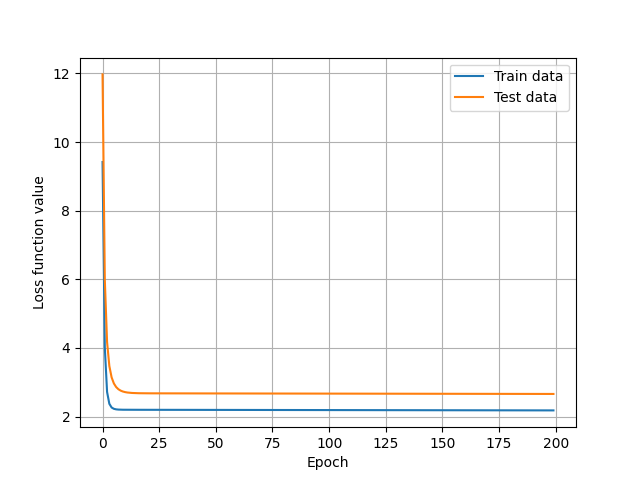
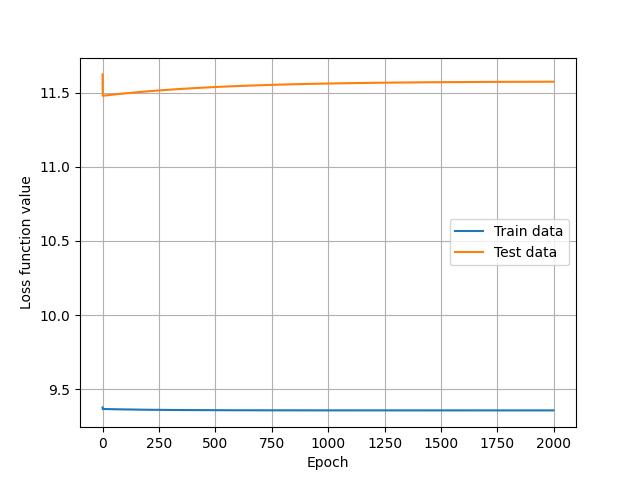
Add create_and_train_network function

diff --git a/main.py b/main.py
@@ -2,13 +2,13 @@ import matplotlib.pyplot as plt
 import numpy as np
 from sklearn.neural_network import MLPRegressor
 
-from neural_network.layers import Linear, ReLu
+from neural_network.layers import Linear, ReLu, Tanh, Sigmoid
 from neural_network.loss_functions import MSE
 from neural_network.neural_network import NeuralNetwork
 
 
 def aim_function(x):
-    return (x ** 3)
+    return x ** 3
 
 
 def create_samples(func, num):
@@ -17,27 +17,44 @@ def create_samples(func, num):
     return x_s, y_s
 
 
+def create_and_train_network():
+    x_train, y_train = create_samples(aim_function, 1000)
+    x_test, y_test = create_samples(aim_function, 100)
+    nn = NeuralNetwork(MSE())
+    first = Linear(1, 100)
+    first_activation = activation_function(100, 100)
+    second = Linear(100, 100)
+    second_activation = activation_function(100, 100)
+    third = Linear(100, 1)
+    nn.add(first)
+    nn.add(first_activation)
+    nn.add(second)
+    nn.add(second_activation)
+    nn.add(third)
+    nn.train(
+        x_train.T,
+        y_train.T,
+        learning_rate=learning_rate,
+        epochs=epochs,
+        minibatch_size=32,
+        calc_test_err=True,
+        x_test=x_test.T,
+        y_test=y_test.T,
+    )
+    return x_test, y_test
+
+
 def test_network():
     scores = []
     for i in range(20):
         np.random.seed = i + 1
-        x_train, y_train = create_samples(aim_function, 1000)
-        x_test, y_test = create_samples(aim_function, 100)
-        nn.train(
-            x_train.T,
-            y_train.T,
-            learning_rate=learning_rate,
-            epochs=epochs,
-            minibatch_size=32,
-            calc_test_err=True,
-            x_test=x_test.T,
-            y_test=y_test.T,
-        )
+        x_test, y_test = create_and_train_network()
         scores.append(nn.score(x_test.T, y_test.T))
     return np.mean(scores), np.std(scores)
 
 
-np.random.seed(38)
+np.random.seed(42)
+activation_function = Sigmoid
 x_train, y_train = create_samples(aim_function, 1000)
 
 x_test, y_test = create_samples(aim_function, 100)
@@ -46,9 +63,9 @@ learning_rate = 0.001
 epochs = 2000
 
 first = Linear(1, 100)
-first_activation = ReLu(100, 100)
+first_activation = activation_function(100, 100)
 second = Linear(100, 100)
-second_activation = ReLu(100, 100)
+second_activation = activation_function(100, 100)
 third = Linear(100, 1)
 
 nn = NeuralNetwork(MSE())
@@ -59,20 +76,27 @@ nn.add(second)
 nn.add(second_activation)
 nn.add(third)
 
-print('*' * 50 + 'Ours' + '*' * 50)
-errors, test_errors = nn.train(x_train.T, y_train.T, learning_rate=learning_rate, epochs=epochs, minibatch_size=64,
-                               calc_test_err=True, x_test=x_test.T, y_test=y_test.T)
+print("*" * 50 + "Ours" + "*" * 50)
+errors, test_errors = nn.train(
+    x_train.T,
+    y_train.T,
+    learning_rate=learning_rate,
+    epochs=epochs,
+    minibatch_size=64,
+    calc_test_err=True,
+    x_test=x_test.T,
+    y_test=y_test.T,
+)
 print(nn.score(x_test.T, y_test.T))
 
 avg_value, std_dev = test_network()
 print(f"Average loss function value: {avg_value}")
 print(f"Standard deviation: {std_dev}")
 
-print('*' * 50 + 'MLPRegressor' + '*' * 50)
+print("*" * 50 + "MLPRegressor" + "*" * 50)
 
-regr = MLPRegressor(solver='sgd', max_iter=epochs).fit(x_train, y_train.ravel())
+regr = MLPRegressor(solver="sgd", max_iter=epochs).fit(x_train, y_train.ravel())
 print(regr.score(x_test, y_test.ravel()))
-
 
 
 plt.xlabel("Epoch")
@@ -81,4 +105,5 @@ plt.plot(errors, label="Train data")
 plt.plot(test_errors, label="Test data")
 plt.legend()
 plt.grid()
+plt.savefig("graph")
 plt.show()
